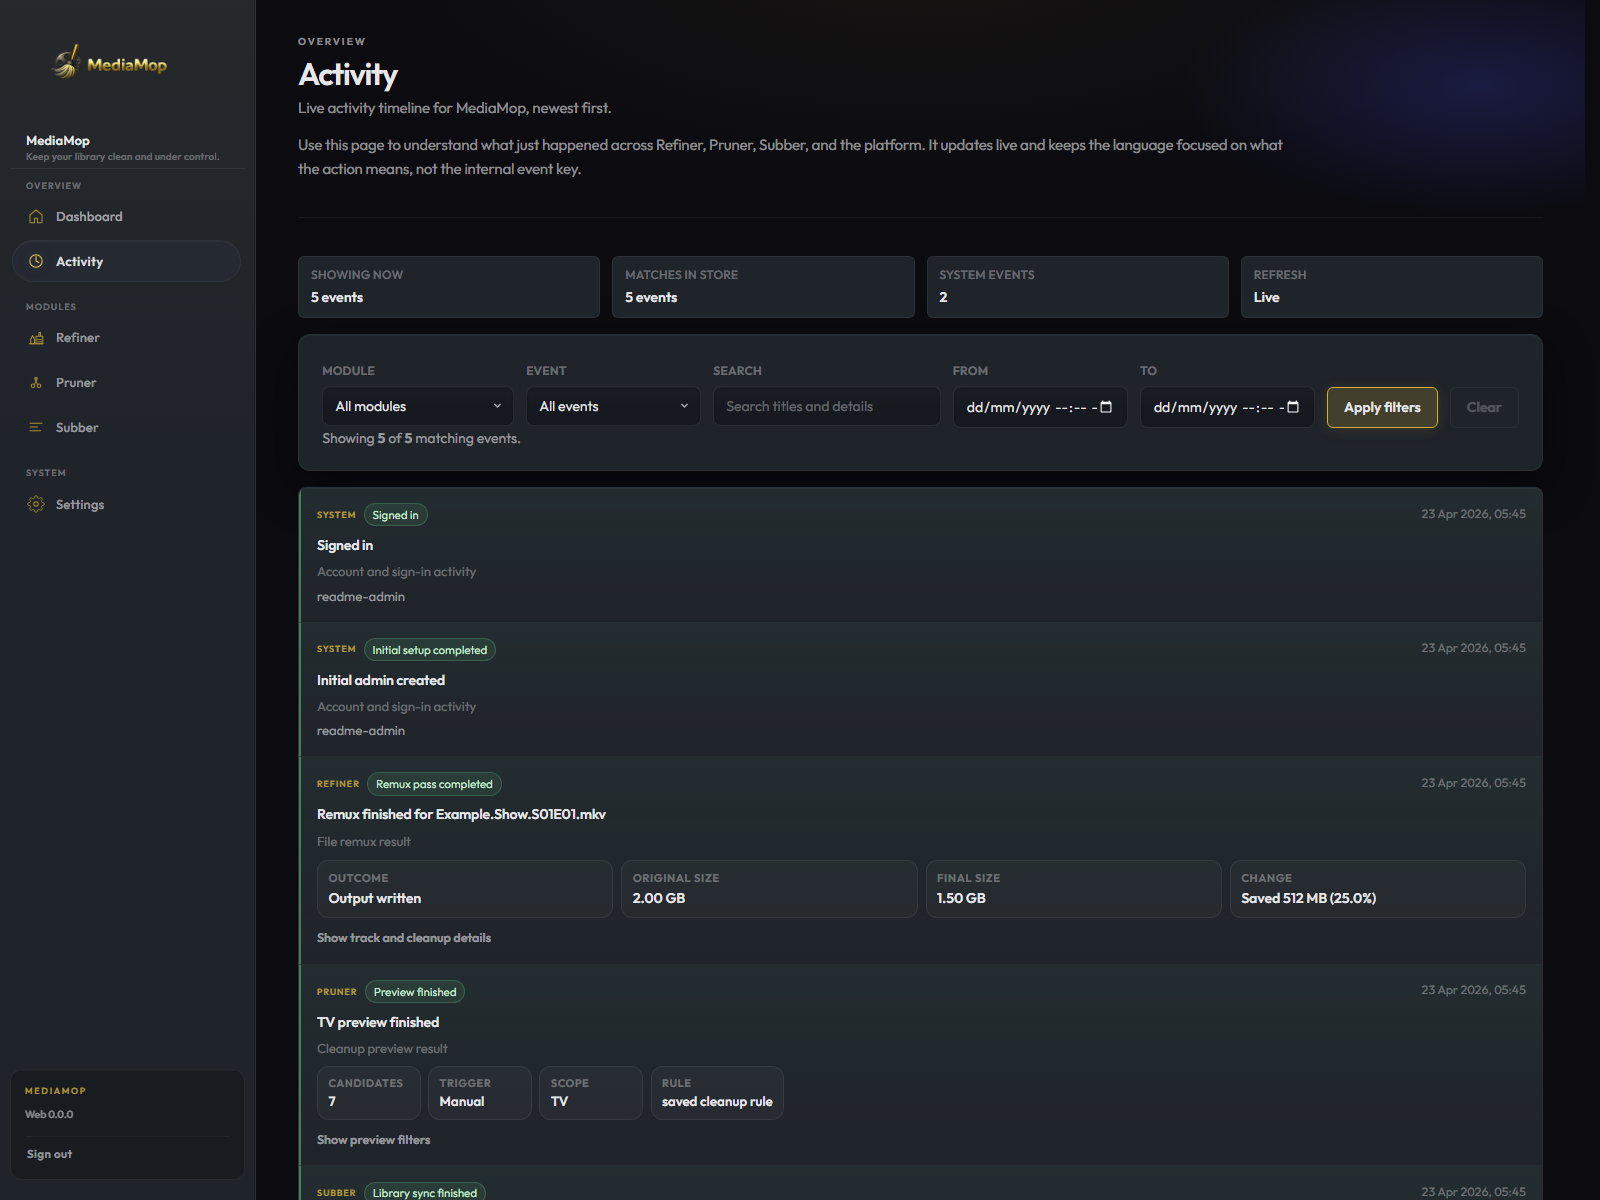
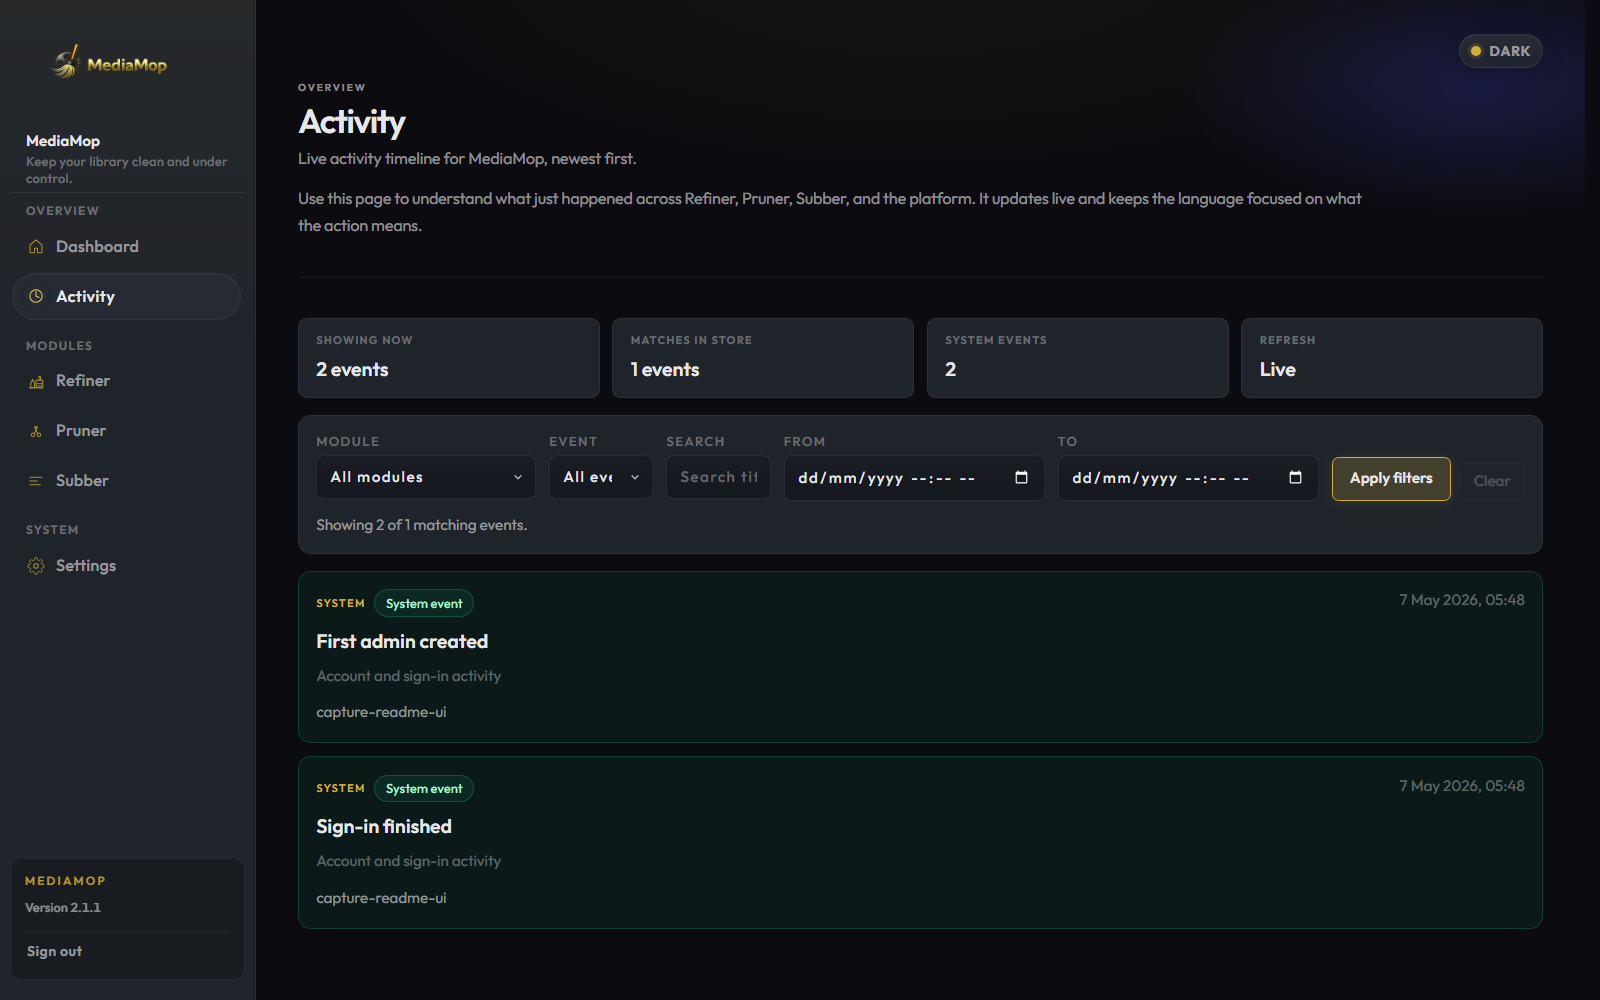
README: add screenshots for all major modules (#153)

Pull request: README: add more UI screenshots
## Summary
- expand README screenshots section with additional Refiner tab captures
- add committed PNG assets under screenshots/refiner-tabs/

## Included screenshots
- Refiner Overview
- Refiner Libraries
- Refiner Audio/Subtitles
- Refiner Schedules
- Refiner Jobs

diff --git a/README.md b/README.md
@@ -28,9 +28,19 @@ The app ships as a FastAPI + SQLite backend with a React + Vite web UI.
 
 ## Screenshots
 
-![Dashboard](screenshots/dashboard.png)
+| Dashboard | Activity |
+| --- | --- |
+| ![Dashboard](screenshots/dashboard.png) | ![Activity](screenshots/activity.png) |
 
-![Activity](screenshots/activity.png)
+| Refiner | Pruner |
+| --- | --- |
+| ![Refiner](screenshots/refiner.png) | ![Pruner](screenshots/pruner.png) |
+
+| Subber | Settings |
+| --- | --- |
+| ![Subber](screenshots/subber.png) | ![Settings](screenshots/settings.png) |
+
+### Refiner activity detail
 
 ![Refiner activity detail](screenshots/refiner-activity.png)
 